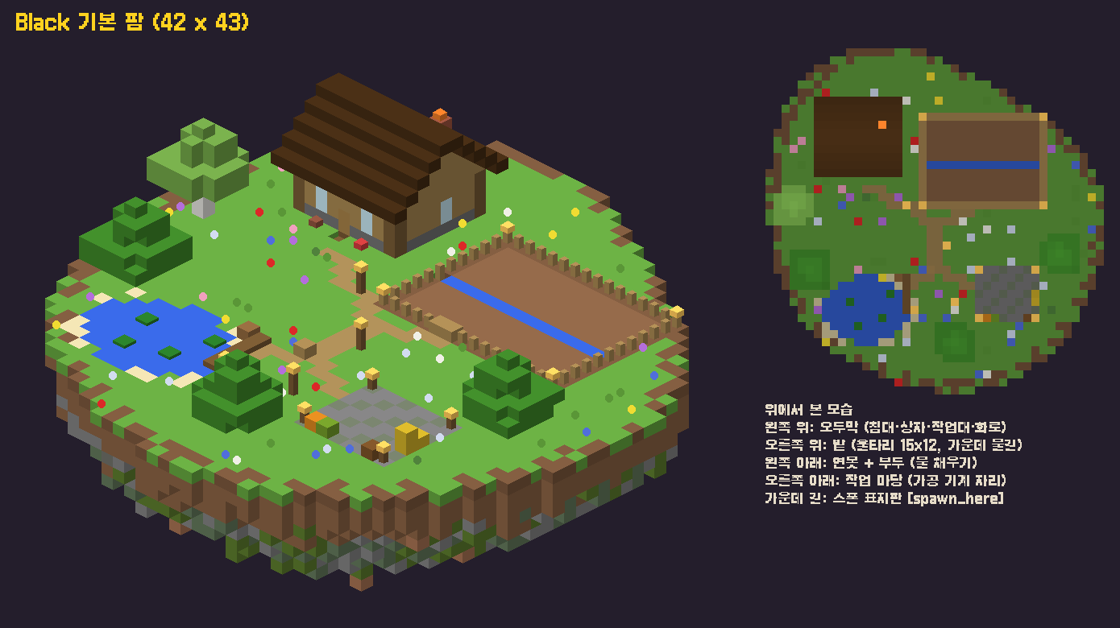
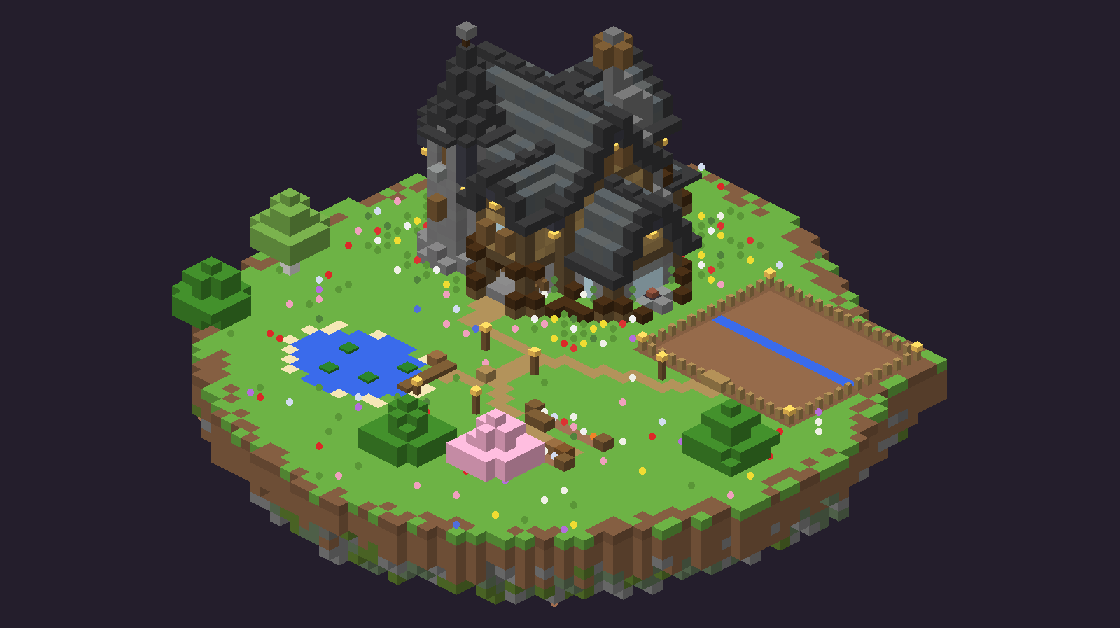
10.20 업데이트

diff --git a/index.html b/index.html
@@ -64,8 +64,8 @@
       <p class="lead">처음 접속하면 지원금 <b>25만원</b>과 파스닙·당근 씨앗, 화분, 구리 물뿌리개, 빵, 요리 테이블, 그리고 <b>Black 곡괭이·도끼·삽·낚싯대</b>를 받아요.</p>
       <p class="muted">처음 들어오면 <b>5분짜리 튜토리얼</b>이 먼저 시작돼요 — 작은 섬에서 화분 놓기 → 씨앗 심기 → 물 주기 → 수확 → 판매 → Shift + F 메뉴 → 상점까지 직접 해 보고, 끝나면 보상을 받고 스폰으로 가요. 막히면 30초 뒤 <code>/튜토리얼 다음</code>.</p>
       <ol class="steps">
-        <li><span class="step-n">1</span><h3>메뉴 열기</h3><p><code>/메뉴</code> 또는 <b>Shift + F</b>. 상점·판매·강화·도감 등 모든 기능을 한 화면에서 클릭으로!</p></li>
-        <li><span class="step-n">2</span><h3>내 팜 만들기</h3><p><code>/농장</code> 으로 나만의 섬을 만들어요. 오두막 · 울타리 밭 · 연못과 선착장이 있는 <b>기본팜</b>에서 시작해요. <code>/팜멤버</code> 로 친구를 초대해 같이 지을 수 있어요.</p></li>
+        <li><span class="step-n">1</span><h3>메뉴 열기</h3><p><code>/메뉴</code> 또는 <b>Shift + F</b>. 상점·판매·강화·도감 등 모든 기능을 한 화면에서 클릭으로! Black 은 <b>PvP · 낙하 · 배고픔 등 피해가 전혀 없는</b> 평화로운 서버예요.</p></li>
+        <li><span class="step-n">2</span><h3>내 팜 만들기</h3><p><code>/농장</code> 으로 나만의 섬을 만들어요. 돌 탑이 있는 큰 집 · 울타리 밭 · 연못과 선착장 · 꽃 정원이 있는 <b>기본팜</b>에서 시작해요. <code>/팜멤버</code> 로 친구를 초대해 같이 지을 수 있어요.</p></li>
         <li><span class="step-n">3</span><h3>심고 물 주기</h3><p>화분(경작지)에 씨앗을 심고 물뿌리개로 물을 줘요. 준 물은 <b>수확할 때까지</b> 마르지 않아요.</p></li>
         <li><span class="step-n">4</span><h3>수확</h3><p>다 자란 작물을 빈손이나 괭이로 우클릭. 괭이를 강화하면 <b>작물 2배 확률</b>이 올라가요. 운이 좋으면 ★ 등급 작물.</p></li>
         <li><span class="step-n">5</span><h3>팔거나 가공하기</h3><p><code>/판매</code> 출하함에 넣고 닫으면 끝. 요리하거나 가공 기계(술통·절임병·목장 가공기·제분기)로 만들면 <b>더 비싸게</b> 팔 수 있어요.</p></li>

diff --git a/README.md b/README.md
@@ -1,0 +1,42 @@
+# Black 소개 사이트 (GitHub Pages)
+
+서버 시스템(농사·요리·광산·낚시·등급·규칙·명령어)을 설명하는 정적 웹사이트예요.
+빌드 도구 없이 이 폴더 그대로 올리면 됩니다.
+
+## 1. 서버 정보 바꾸기
+`app.js` 맨 위만 고치세요.
+```js
+const SERVER = {
+  name: "Black",
+  ip: "play.example.com",   // 실제 서버 주소
+  version: "Java 1.21.1",
+  discord: "",              // 디스코드 초대 링크 (비워두면 버튼 숨김)
+};
+```
+
+## 2. GitHub Pages 로 올리기
+1. GitHub 에서 새 저장소 만들기 (예: `minefarm`, Public)
+2. **Add file → Upload files** 로 이 `site` 폴더 **안의 파일 전부**를 드래그해서 올리기
+   (`index.html` 이 저장소 맨 위에 있어야 해요)
+3. 저장소 **Settings → Pages**
+   - Source: **Deploy from a branch**
+   - Branch: **main** / **/(root)** → Save
+4. 1~2분 뒤 `https://<깃허브아이디>.github.io/minefarm/` 에서 열려요
+
+## 3. 서버 설정을 바꿨을 때 (작물·요리·가격 등)
+```
+cd tools
+python3 gen_assets.py   # 서버용 텍스처·설정 다시 만들기
+python3 gen_site.py     # 사이트 data.js 와 img/ 다시 만들기
+```
+→ 바뀐 `data.js` 와 `img/` 를 GitHub 에 다시 올리면 사이트도 자동으로 바뀌어요.
+
+## 파일
+| 파일 | 내용 |
+|---|---|
+| `index.html` | 페이지 구조와 문구 (직접 수정 OK) |
+| `style.css` | 디자인 (나무·양피지 테마, 다크모드 자동) |
+| `app.js` | 서버 정보 + 카드·표·검색 만들기 |
+| `data.js` | 작물·요리·광물 데이터 (자동 생성, 직접 수정 X) |
+| `img/` | 서버와 같은 텍스처 (자동 생성) |
+| `.nojekyll` | GitHub Pages 가 파일을 그대로 쓰게 하는 빈 파일 |
